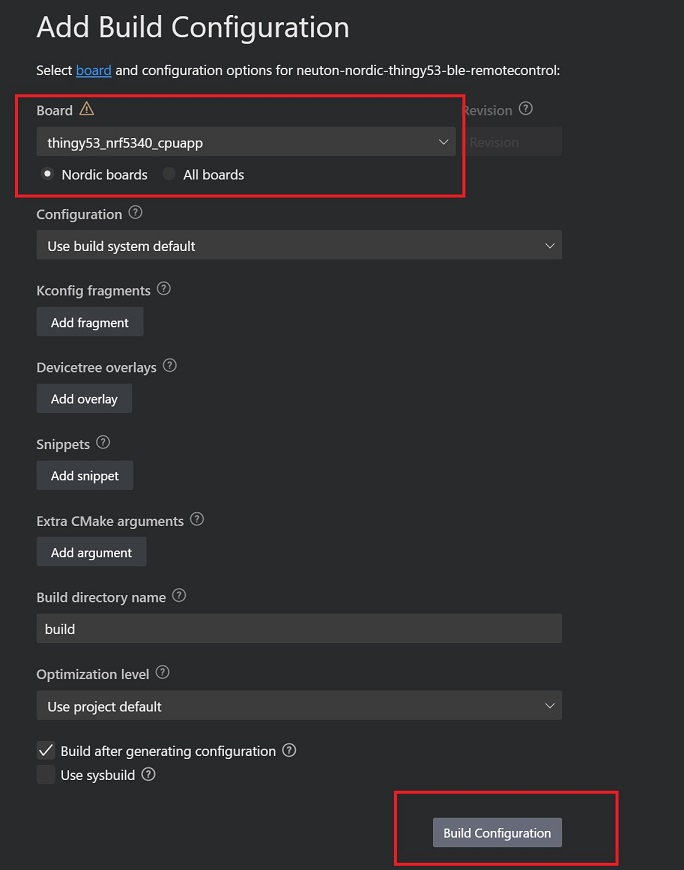
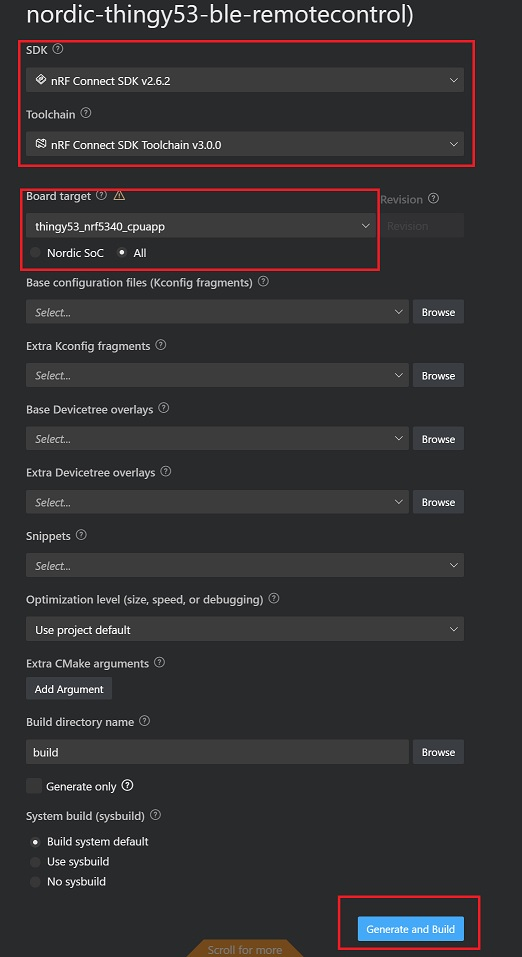
update readme with new project setup flow images and toolchain version

diff --git a/README.md b/README.md
@@ -31,7 +31,7 @@ To set this project up, you will need to install the following software:
 
 1. Clone this repository: https://github.com/Neuton-tinyML/neuton-nordic-thingy53-ble-remotecontrol
 2. In the VS code, `Open folder` where you did clone the repository.
-3. Install toolchain version **v2.6.2** and SDK version **v2.6.2** in nRF Connect tab.
+3. `Manage toolchain` install toolchain version **v3.0.0**. `Manage SDK` install version **v2.6.2** in nRF Connect tab.
 
 ![sw-install-step3-img](resources/sw-install-step-3.jpg)
 
@@ -47,7 +47,9 @@ To set this project up, you will need to install the following software:
 
 ![sw-install-step6-img](resources/sw-install-step-6.jpg)
 
-7. **IMPORTANT** If your `thingy53_nrf5340_cpuapp_defconfig` file does not has `CONFIG_FPU=y` you should add this because Neuton library is compiled with `-mfloat-abi=hard` flag
+**IMPORTANT** If your `thingy53_nrf5340_cpuapp_defconfig` file does not has **`CONFIG_FPU=y`** you should add this because Neuton library is compiled with `-mfloat-abi=hard` flag
+
+![sw-install-step5-1-img](resources/sw-install-step-5-1-important.jpg)
 
 8. Now turn on your Thingy 53 dev kit and connect to your PC via debugger and USB
 
@@ -123,7 +125,7 @@ __Gestures to Keyboard Keys Mapping__
 | Rotation Counter clockwise    | Not used   | Media Volume Down |
 
 __How to Make Gestures__
-> **_NOTE:_**  The dataset for creating this model is very immature and this affects the generalization of the model on different persons, so please follow the instructions for good gesture recognition.
+> **_NOTE:_**  The dataset for creating this model is immature and this affects the generalization of the model on different persons, so please follow the instructions for good gesture recognition.
 
 To begin with, please make sure that the default (initial) position of the device is the same as following:
 
